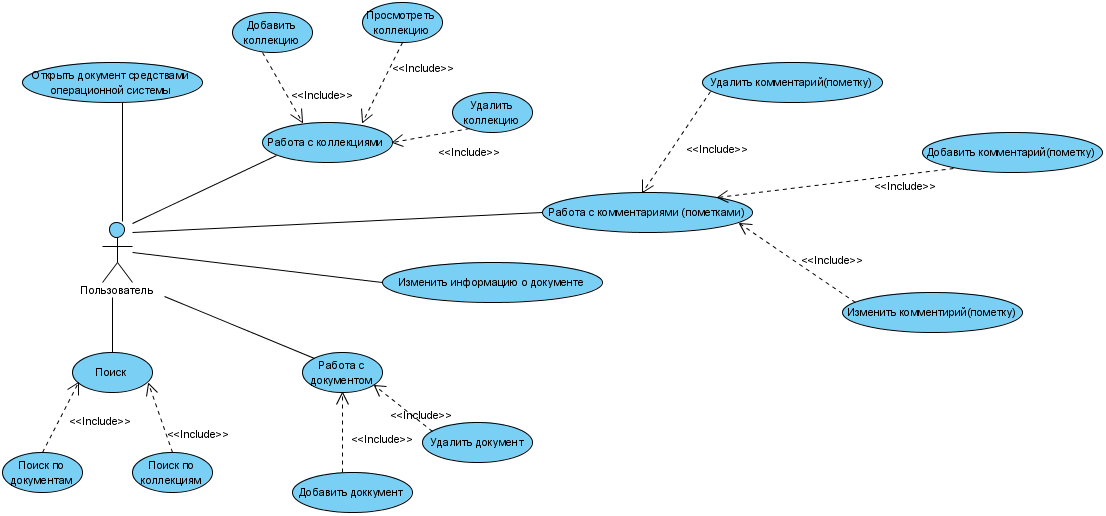
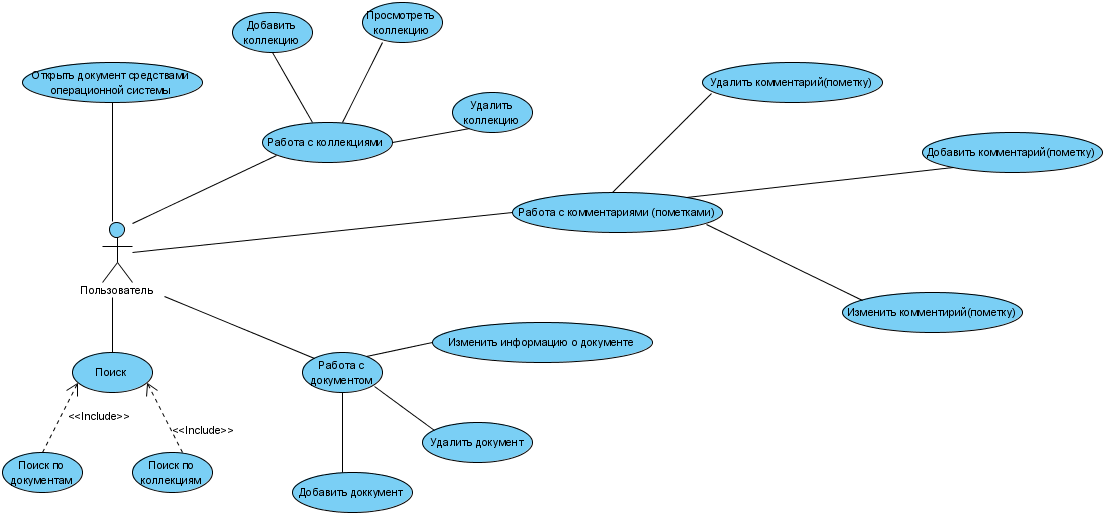
Правки

diff --git a/Documentation/Activity.md b/Documentation/Activity.md
@@ -1,12 +1,62 @@
-## Содержание
-1. **[Открыть документ средствами операционной системы](#openingDoc)**
-2. **[Работа с коллекцией](#workingCol)**
-3. **[Работа с документами](#workingDoc)**
-4. **[Изменить информацию о документе](#infoDoc)**
-5. **[Поиск](#search)**
-6. **[Работа с комментариями (пометками](#workingCom)**
+### Добавить коллекцию
 
-<a name="openingDoc"></a>
+Цель: Добавить новую коллекцию  
+Главная последовательность:  
+1. пользователь нажимает на кнопку добавления коллекции;
+2. система запрашивает у пользователя имя новой коллекции;
+3. пользователь вводит желаемое имя;
+4. система добавляет коллекцию;
+5. новая коллекция отображается вместе с остальными.
+
+### Удалить коллекцию
+
+Цель: Удалить существующую коллекцию   
+Предусловие: коллекция должна существовать  
+Главная последовательность:  
+1. пользователь нажимает на кнопку удаления коллекции;
+2. система запрашивает у пользователя подтверждение;
+3. пользователь подтверждает действие. При отмене действия переход к альтернативной последовательности A1;
+4. система удаляет коллекцию;
+
+Альтернативная последовательность А1:  
+1. система не удаляет коллекцию;
+
+
+### Просмотреть коллекцию
+
+Цель: Отобразить в центральной части окна содержание коллекции, т.е. список входящих в неё документов и краткую информацию о них.   
+Предусловие: коллекция должна существовать  
+Главная последовательность:  
+1. пользователь выбирает нужную коллекцию;
+2. система отображает содержание коллекции.
+
+### Добавить документ
+
+Цель: Добавить новую коллекцию  
+Предусловие: коллекция должна быть выбрана
+Главная последовательность:  
+1. пользователь нажимает на кнопку добавления документа;
+2. система запрашивает у пользователя информацию о новом документа: месторасположение документа на персональном компьютере (путь к документу), тип(рабочий документ, книга);
+3. пользователь вводит требуемые данные;
+4. система добавляет файл в коллекцию;
+5. новый документ отображается вместе со всеми документами коллекции.
+
+### Уделить документ
+
+Цель: Добавить новую коллекцию  
+Предусловие:
+- коллекция должна быть выбрана;  
+- документ должен существовать и быть выбран.
+
+Главная последовательность:  
+1. пользователь нажимает на кнопку удаления документа;
+2. система запрашивает у пользователя подтверждение;
+3. пользователь подтверждает действие. При отмене действия переход к альтернативной последовательности A1;
+4. система удаляет документ;
+
+Альтернативная последовательность А1:  
+1. система не удаляет документ;
+
 ### Открыть документ средствами операционной системы
 
 Цель: Открыть выбранный для просмотра/редактирования  
@@ -22,79 +72,64 @@
 Альтернативная последовательность А1:  
 1. система выдаёт сообщение, что документ не найден;
 
-<a name="workingCol"></a>
-### Работа с коллекцией
-
-Цель: Взаимодействие с множеством коллекций системы  
-Предусловие:
-- коллекция должна быть выбрана (для операций Удаления и Просмотра);  
-
-Главная последовательность:  
-1. пользователь выбирает требуемую операцию над коллекцией: Добавить коллекцию, Удалить коллекцию, Просмотреть коллекцию. Если выбрана операция Добавить коллекцию - переход к пункту 3;
-2. пользователь выбирает коллекцию, над которой будет производится операция;
-3. пользователь выполняет действие, требуемое для начала выбранной операции;
-4. если операция - Добавить коллекцию, то система запрашивает имя новой коллекции. Если операция - Удалить коллекцию, то система запрашивает у пользователя подтверждение операции;
-4. попытка системы выполнить операцию. Если операция не может выполнится, то переход к альтернативной последовательности А1;
-5. система сообщает об успешном завершении операции;
-
-Альтернативная последовательность А1:  
-1. возврат системы к первоначальному состоянию;
-
-<a name="workingDoc"></a>
-### Работа с документами
-
-Цель: Взаимодействие с множеством документов содержащихся в выбранной коллекции  
-Предусловие:
-- коллекция должна быть выбрана;
-
-Главная последовательность:
-1. пользователь выбирает требуемую операцию множеством документов: Добавить документ, Удалить документ. Если выбрана операция Добавить документ -  переход к пункту 3;
-2. пользователь выбирает документ;
-3. пользователь выполняет действие, требуемое для начала выбранной операции;
-4. если операция - Добавить документ, то система запрашивает информацию о новом документе. Если операция - Удалить документ, то система запрашивает у пользователя подтверждение операции;
-5. попытка системы выполнить операцию. Если операция не может выполнится, то переход к альтернативной последовательности А1;
-6. система сообщает об успешном завершении операции;
-
-Альтернативная последовательность А1:  
-1. возврат системы к первоначальному состоянию;
-
-<a name="infoDoc"></a>
-### Изменить информацию о документе
-
-Цель: Изменение информации о выбранном документе
-Предусловие:
-- коллекция должна быть выбрана;
-
-Главная последовательность:  
-1. пользователь выбирает документ, содержащейся в коллекции;
-2. система открывает окно с информацией о документе;
-3. пользователь изменяет информацию;
-4. пользователь выходит из окна с информацией о документе;
-
 <a name="search"></a>
 ### Поиск
 
-Цель: Поиск документов или коллекций по названию
+Цель: Нахождение документов или коллекций по названию  
 
+Главная последовательность:
+1. пользователь вводит информацию для поиска;
+2. система ищет совпадения в базе данных;
+3. система отображает результат;
+
+### Изменить информацию о документе
+
+Цель: Изменение существующей информации о конкретном документе
+Предусловие:
+- коллекция должна быть выбрана;   
+
+Главная последовательность:
+1. выбрать документ;
+2. система откроет окно с информацией о документе;
+3. пользователь изменяет необходимую информацию;
+4. система сохраняет изменение;
+
+### Добавить комментарий
+
+Цель: Добавить новый комментарий
+Предусловие:
+- коллекция должна быть выбрана;
+- документ должен быть выбран.
 Главная последовательность:  
-1. пользователь вводит информацию для поиска: имя коллекции (документа) или его часть;
-2. система ищет совпадения;
-3. система выводит пользователю результат поиска;
+1. пользователь нажимает на кнопку добавления комментария;
+2. система добавляет комментарий;
+3. новый комментарий отображается вместе со всеми.
 
-<a name="workingCom"></a>
-### Работа с комментариями (пометками)
+### Уделить комментарий
 
-Цель: Взаимодействие с множеством комментариев(пометок) конкретного документа  
+Цель: Удалить комментарий новую коллекцию  
 Предусловие:
 - коллекция должна быть выбрана;  
-- документ должен быть выбран;
+- документ должен существовать и быть выбран.
 
 Главная последовательность:  
-1. пользователь выбирает требуемую операцию над множеством комментариев (пометок): Добавить комментарий(пометку), Удалить комментарий(пометку), Изменить комментарий(пометку). Если выбрана операция Добавить коллекцию - переход к пункту 3;
-2. пользователь выбирает комментарий(пометку), над которым будет производится операция;
-3. пользователь выполняет действие, требуемое для начала выбранной операции;
-4. попытка системы выполнить операцию. Если операция не может выполнится, то переход к альтернативной последовательности А1;
-5. система отображает изменённое множество комментариев (пометок);
+1. пользователь нажимает на кнопку удаления комментария;
+2. система запрашивает у пользователя подтверждение;
+3. пользователь подтверждает действие. При отмене действия переход к альтернативной последовательности A1;
+4. система удаляет документ;
 
 Альтернативная последовательность А1:  
-1. возврат системы к первоначальному состоянию;
+1. система не удаляет документ;
+
+### Изменить комментарий
+
+Цель: Изменение существующей комментарий
+Предусловие:
+- коллекция должна быть выбрана;  
+- документ должен существовать и быть выбран.
+
+Главная последовательность:
+1. выбрать комментарий;
+2. нажать на кнопку изменения комментария;
+3. правка текста существующего комментария;
+4. сохранение комментария.
